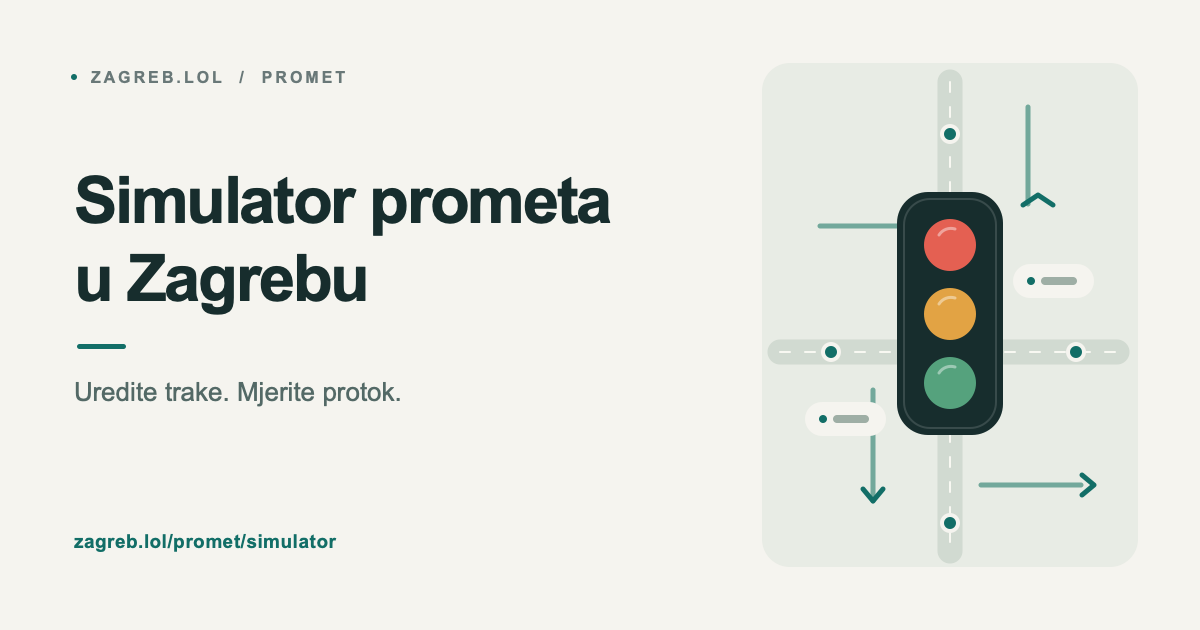
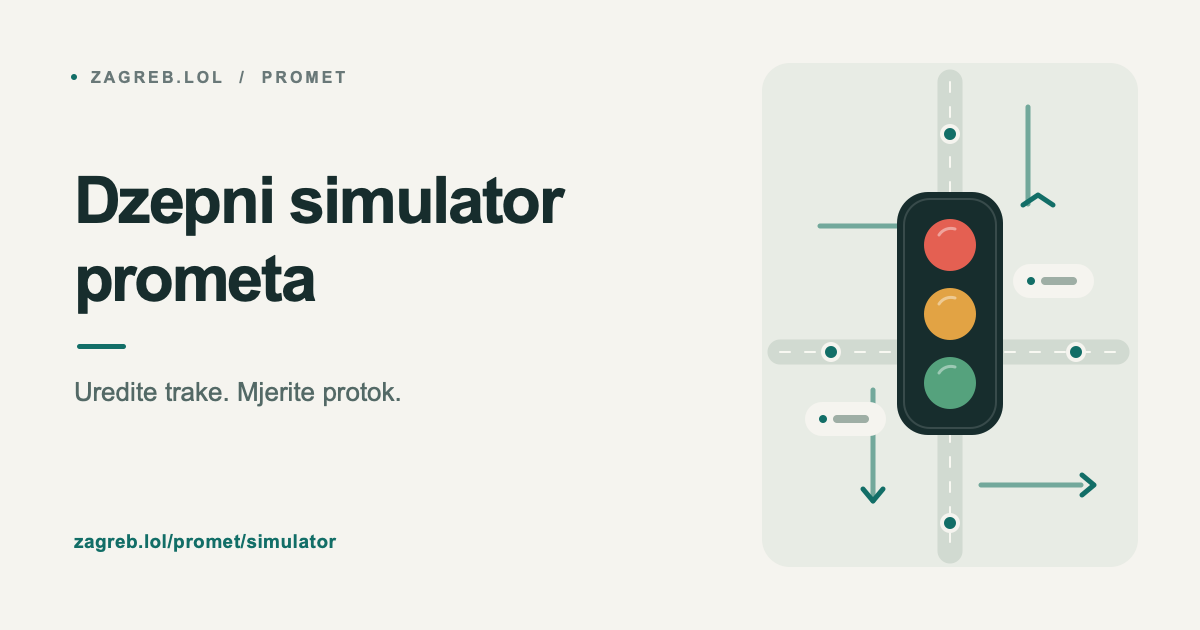
Rename pocket traffic simulator and keep paused signal details visible

Changed region(s): [[0.0617, 0.2714, 0.5242, 0.3921], [0.0617, 0.3921, 0.3083, 0.5127]]

diff --git a/frontend/traffic/index.html b/frontend/traffic/index.html
@@ -5,7 +5,7 @@
     <meta charset="utf-8">
     <meta name="viewport" content="width=device-width, initial-scale=1">
     <meta name="theme-color" content="#f5f4ef">
-    <title>Simulator prometa u Zagrebu | zagreb.lol</title>
+    <title>Dzepni simulator prometa | zagreb.lol</title>
     <meta name="description" content="Interaktivni simulator prometa u Zagrebu. Zatvarajte prometne trake, pratite obilazne putanje vozila i mjerite protok na raskrižjima.">
     <meta name="robots" content="index,follow,max-image-preview:large,max-snippet:-1">
     <link rel="canonical" href="https://zagreb.lol/promet/simulator/">
@@ -13,21 +13,21 @@
     <meta property="og:type" content="website">
     <meta property="og:locale" content="hr_HR">
     <meta property="og:site_name" content="zagreb.lol">
-    <meta property="og:title" content="Simulator prometa u Zagrebu">
+    <meta property="og:title" content="Dzepni simulator prometa">
     <meta property="og:description" content="Uredite prometne trake, pratite vozila i usporedite protok prije i nakon zatvaranja dijela ceste.">
     <meta property="og:url" content="https://zagreb.lol/promet/simulator/">
     <meta property="og:image" content="https://zagreb.lol/promet/simulator/og-image.png">
     <meta property="og:image:width" content="1200">
     <meta property="og:image:height" content="630">
-    <meta property="og:image:alt" content="Simulator prometa u Zagrebu — semafor i prometne trake">
+    <meta property="og:image:alt" content="Dzepni simulator prometa — semafor i prometne trake">
     <meta name="twitter:card" content="summary_large_image">
-    <meta name="twitter:title" content="Simulator prometa u Zagrebu">
+    <meta name="twitter:title" content="Dzepni simulator prometa">
     <meta name="twitter:description" content="Uredite trake. Mjerite protok. Usporedite učinak promjene na promet.">
     <meta name="twitter:image" content="https://zagreb.lol/promet/simulator/og-image.png">
     <link rel="alternate" type="application/json" href="/api/promet/simulator/status" title="Izvori i obuhvat podataka simulatora">
     <link rel="help" href="llms.txt" type="text/plain">
     <script type="application/ld+json">
-    {"@context":"https://schema.org","@graph":[{"@type":"WebApplication","@id":"https://zagreb.lol/promet/simulator/#app","name":"Simulator prometa u Zagrebu","url":"https://zagreb.lol/promet/simulator/","description":"Interaktivno zatvaranje prometnih traka, prikaz kretanja vozila i mjerenje protoka u središtu Zagreba.","inLanguage":"hr-HR","applicationCategory":"SimulationApplication","operatingSystem":"Web","isAccessibleForFree":true,"provider":{"@type":"Organization","name":"zagreb.lol","url":"https://zagreb.lol/"}},{"@type":"Dataset","@id":"https://zagreb.lol/promet/simulator/#podaci","name":"Prometne trake i spremljena kretanja u središtu Zagreba","description":"Izvedena mreža prometnih traka iz OpenStreetMapa i spremljenih odluka o dopuštenim kretanjima. Obuhvat i vrijeme izvora dostupni su kroz API.","inLanguage":"hr-HR","spatialCoverage":{"@type":"Place","name":"Središte Zagreba"},"distribution":{"@type":"DataDownload","contentUrl":"https://zagreb.lol/api/promet/simulator/network","encodingFormat":"application/json"}}]}
+    {"@context":"https://schema.org","@graph":[{"@type":"WebApplication","@id":"https://zagreb.lol/promet/simulator/#app","name":"Dzepni simulator prometa","url":"https://zagreb.lol/promet/simulator/","description":"Interaktivno zatvaranje prometnih traka, prikaz kretanja vozila i mjerenje protoka u središtu Zagreba.","inLanguage":"hr-HR","applicationCategory":"SimulationApplication","operatingSystem":"Web","isAccessibleForFree":true,"provider":{"@type":"Organization","name":"zagreb.lol","url":"https://zagreb.lol/"}},{"@type":"Dataset","@id":"https://zagreb.lol/promet/simulator/#podaci","name":"Prometne trake i spremljena kretanja u središtu Zagreba","description":"Izvedena mreža prometnih traka iz OpenStreetMapa i spremljenih odluka o dopuštenim kretanjima. Obuhvat i vrijeme izvora dostupni su kroz API.","inLanguage":"hr-HR","spatialCoverage":{"@type":"Place","name":"Središte Zagreba"},"distribution":{"@type":"DataDownload","contentUrl":"https://zagreb.lol/api/promet/simulator/network","encodingFormat":"application/json"}}]}
     </script>
     <link rel="stylesheet" href="assets/leaflet/leaflet.css">
     <link rel="stylesheet" href="traffic.css?v=20261014g">
@@ -54,7 +54,7 @@
         <aside class="controls">
             <header>
                 <div class="eyebrow"><span class="brand-mark" aria-hidden="true">↗</span><span data-i18n-key="traffic.eyebrow">SIMULATOR PROMETA</span><span class="edition">01 / ZG</span></div>
-                <h1 data-i18n-key="traffic.title">Simulator prometa u Zagrebu</h1>
+                <h1 data-i18n-key="traffic.title">Dzepni simulator prometa</h1>
                 <p class="intro" data-i18n-key="traffic.intro">Uredite prometne trake i pratite kako se promet mijenja.</p>
                 <span class="source-badge"><span aria-hidden="true"></span><span data-i18n-key="traffic.candidate">OSM i spremljene veze traka</span></span>
             </header>

diff --git a/backend/test/traffic-site.test.js b/backend/test/traffic-site.test.js
@@ -17,12 +17,12 @@ describe('Croatian traffic simulator site', () => {
         const body = html.match(/<body>([\s\S]*?)<\/body>/i)?.[1] || '';
 
         expect(html).toMatch(/<html\s+lang="hr">/i);
-        expect(body).toContain('Simulator prometa u Zagrebu');
+        expect(body).toContain('Dzepni simulator prometa');
         expect(body).toContain('Zatvori traku');
         expect(body).not.toMatch(/<(?:select|button)\b[^>]*(?:language|jezik)|\bname="(?:lang|language|jezik)"/i);
         expect(body).not.toMatch(/\b(?:Choose language|Select language|Odaberite jezik|English)\b/i);
         expect(html).toContain('src="copy.js');
-        expect(copy.t('traffic.title')).toBe('Simulator prometa u Zagrebu');
+        expect(copy.t('traffic.title')).toBe('Dzepni simulator prometa');
         expect(pageScript).toContain('window.TrafficCopy.t');
         expect(pageScript).not.toMatch(/window\.(?:i18n|i18next)|\bi18next\b/i);
         expect(html).not.toMatch(/<script\b[^>]*src="https?:\/\/[^\"]*(?:i18n|locale|translation)/i);

diff --git a/frontend/traffic/traffic.js b/frontend/traffic/traffic.js
@@ -426,6 +426,7 @@
         if (selected != null) document.querySelector('.inspector').scrollIntoView({ block: 'nearest', behavior: reduced ? 'auto' : 'smooth' });
     });
     function openSignal(signal) {
+        $('status').hidden = true;
         const content = document.createElement('div');
         const title = document.createElement('strong'); title.textContent = t('signalSource', { road: signal.name || t('unnamed'), direction: t(`direction${signal.direction}`) });
         const detail = document.createElement('p'); detail.textContent = t('signalDetails');

diff --git a/frontend/traffic/copy.js b/frontend/traffic/copy.js
@@ -13,7 +13,7 @@
         trafficHub: 'Promet',
         aboutSimulator: 'O simulatoru',
 
-            title: 'Simulator prometa u Zagrebu',
+            title: 'Dzepni simulator prometa',
             eyebrow: 'SIMULATOR PROMETA',
             intro: 'Uredite prometne trake i pratite kako se promet mijenja.',
             candidate: 'OSM i spremljene veze traka',

diff --git a/frontend/traffic/README.md b/frontend/traffic/README.md
@@ -1,4 +1,4 @@
-# Simulator prometa u Zagrebu
+# Dzepni simulator prometa
 
 Hrvatski simulator prikazuje kretanje vozila kroz odabrano područje Zagreba. Možete zatvarati
 trake, pratiti vozila, pregledati razlog njihova zaustavljanja i mjeriti protok. Kretanje koristi
